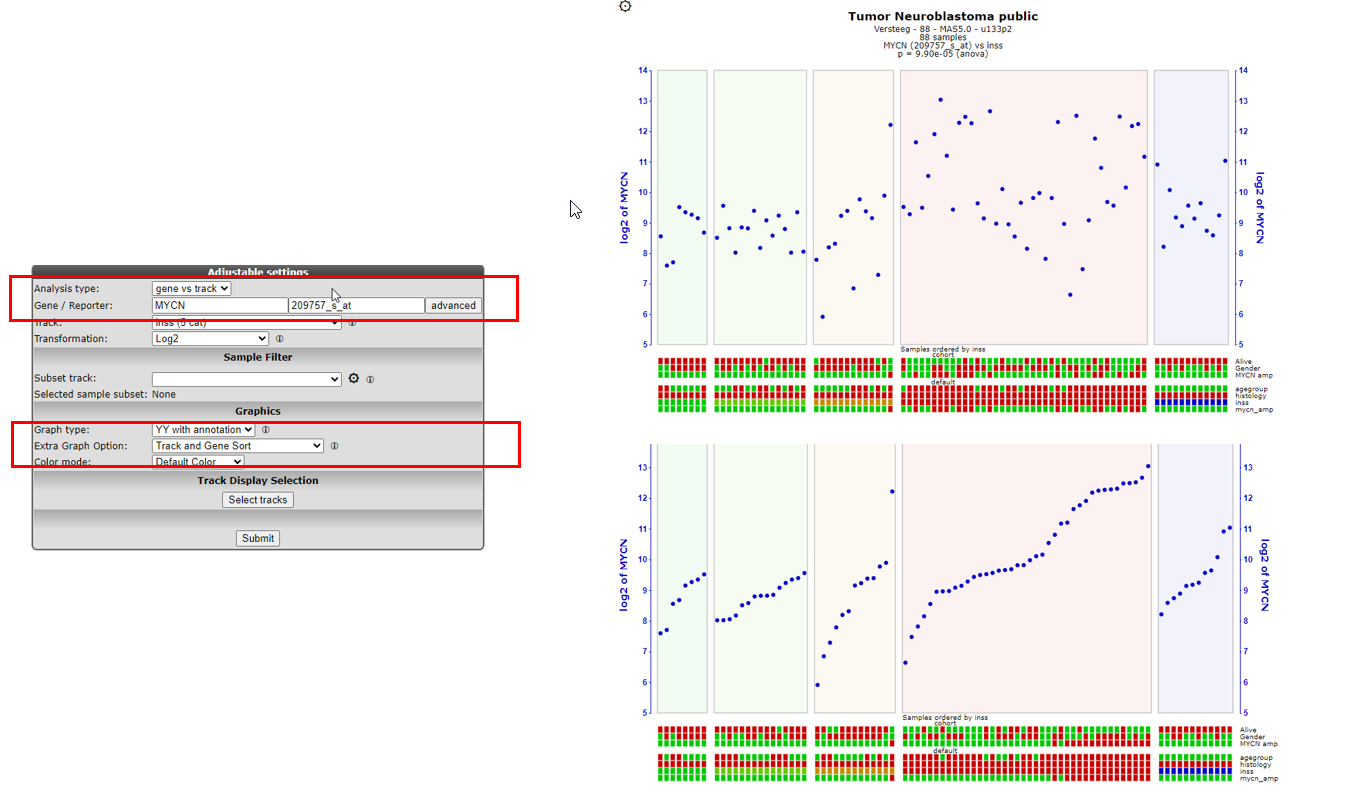
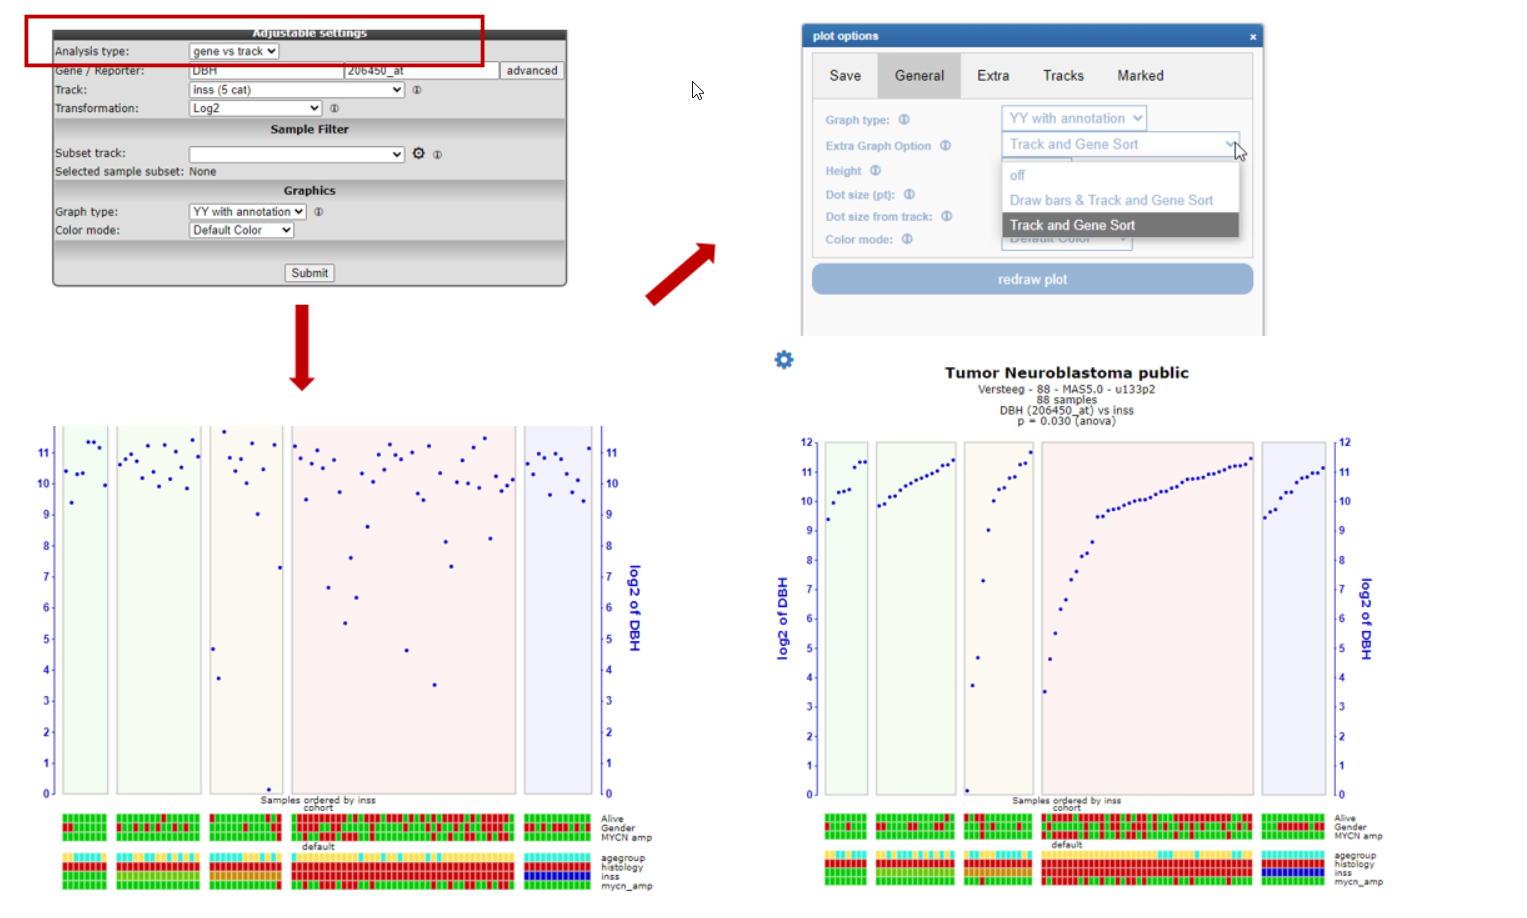
adapted pics in onegeneview

diff --git a/docs/One_Gene_View.md b/docs/One_Gene_View.md
@@ -222,12 +222,10 @@ Another often used feature is the **Vector (SVG) output** option. The vector ima
 4. When you are in the one gene view plot, a logical step is to investigate the expression levels in correspondence  with a group parameter. Select in the analysis type menu "gene vs track" in the track selection menu, the inss track and click "submit", Figure 8. The cohort is separated accordingly by the patient INSS staging in alphabetical order. It could be that the ordering of the group parameters is not the most convenient representation for your analysis. In order to customize this, you can create your own track as described in  (the chapter “Adapting R2 to your needs”) and make your own track with the correct ordering eg: a_stage IV, b_stage 1 etc. 
 
 
-
 N.B.  The same analysis can also be obtained with the module "View a Gene in Groups" from the main page.  
 
 
-5. The current representation is the most honest way of showing your data, as every single value is visible in the plot. In the adjustable settings you can fine-tune your graph for example by switching on the track and genesort within the groups (Figure 8).
-
+5. The current representation is the most honest way of showing your data, as every single value is visible in the plot. In the General section of the Gearbox  switch  on the track and genesort within the groups to organise the epxression levels in your graph. (Figure 8).
 
 ![](_static/images/Onegeneview/OneGene_genevstrack_sort.png "Figure 8: Gene vs track")
 
